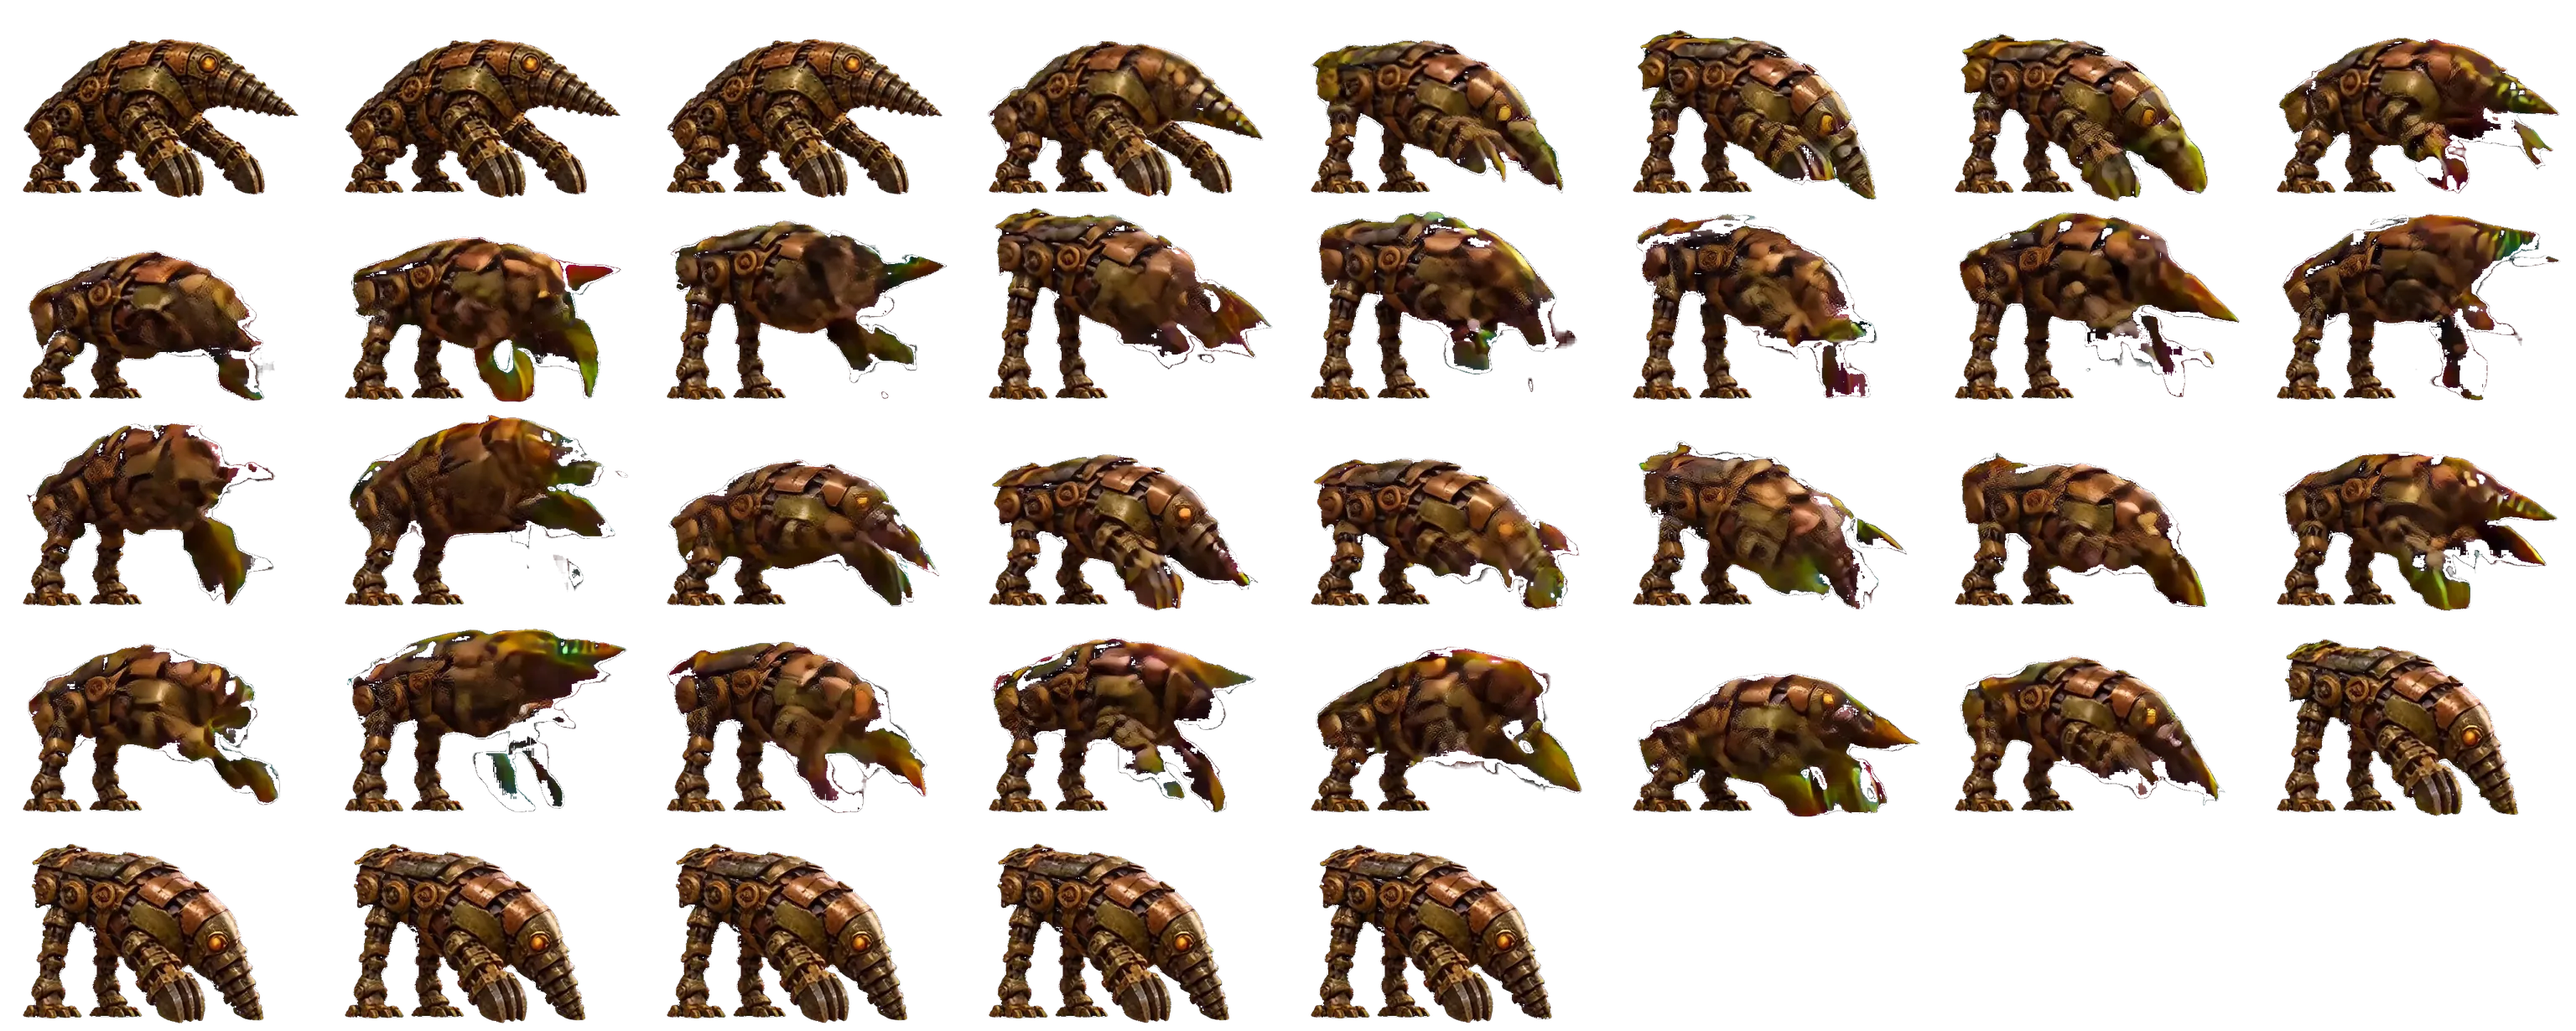
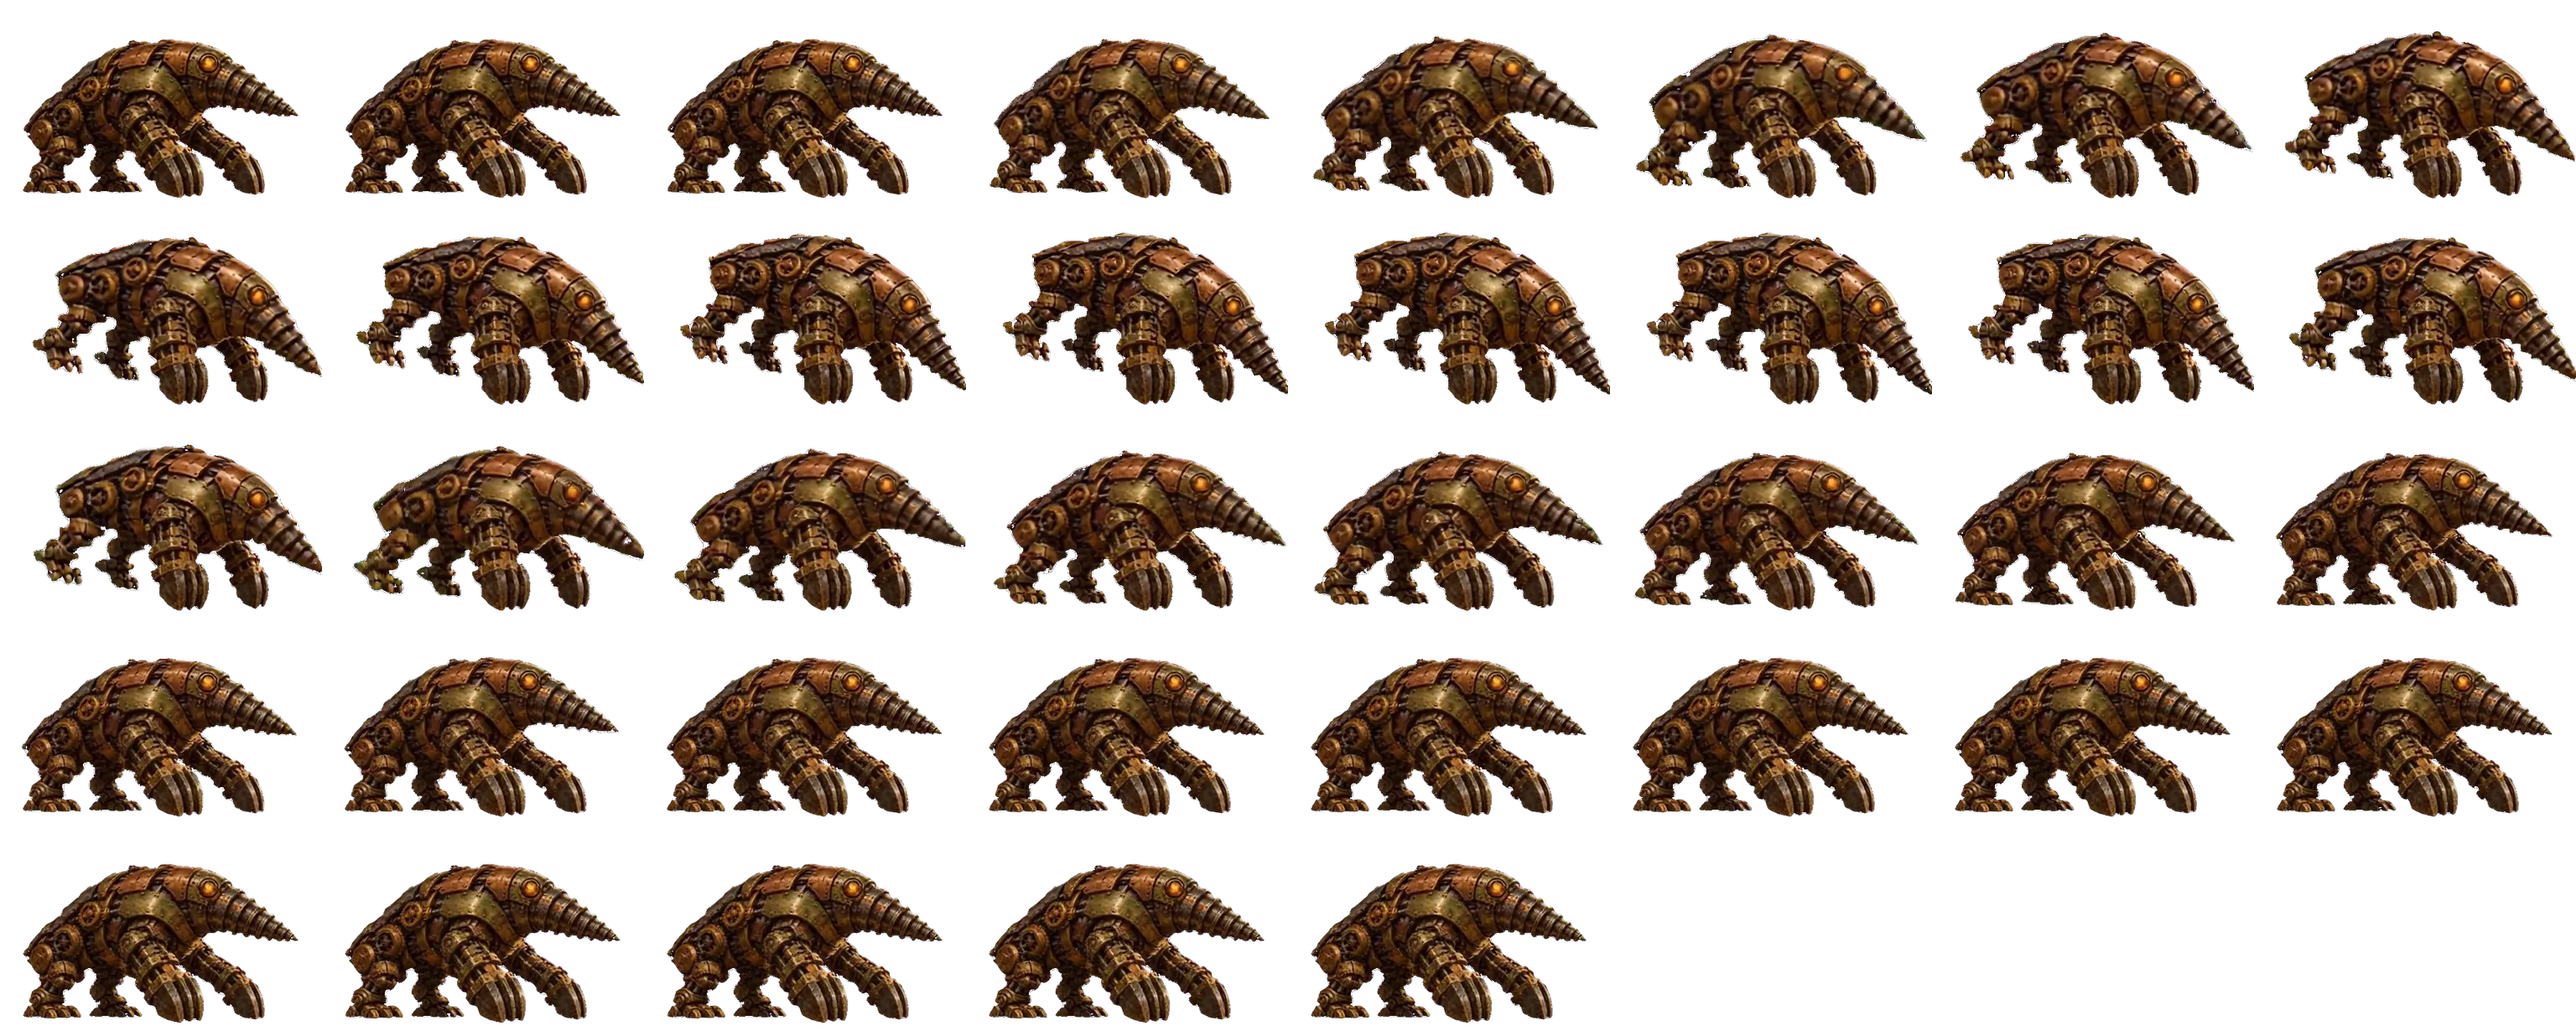
Bronze Mole attack: new clip without morphing plus two lunges drawn in code (SpriteSpec.lunge), also on the review page

diff --git a/scripts/podglad.ts b/scripts/podglad.ts
@@ -54,7 +54,7 @@ if (!process.env.SKIP_SHOTS) {
 }
 
 // 2. The page.
-interface Clip { name: string; frames: number; sheet: string; fps: number }
+interface Clip { name: string; frames: number; sheet: string; fps: number; lunge?: [number, number] }
 interface UnitEntry { id: string; name: string; kind: string; stats: string; ability: string; frame: [number, number]; cols: number; clips: Clip[]; stills: string[]; recoil?: { still: string; feet: number; cx: number }; sounds: { atak?: string; smierc?: string } }
 const entries: Record<string, UnitEntry[]> = {};
 for (const f of FACTIONS) {
@@ -73,7 +73,7 @@ for (const f of FACTIONS) {
       e.frame = a.frame; e.cols = a.cols;
       for (const [name, frames] of Object.entries<number>(a.clips)) {
         if (name === 'trafienie' && spec.recoil) continue; // drawn in code instead (SpriteSpec.recoil): shown below as a loop of the still
-        if (existsSync(`${dir}/${name}.webp`)) e.clips.push({ name, frames, sheet: `../../${dir}/${name}.webp`, fps: (a.fps ?? 12) * (spec.speed?.[name] ?? 1) });
+        if (existsSync(`${dir}/${name}.webp`)) e.clips.push({ name, frames, sheet: `../../${dir}/${name}.webp`, fps: (a.fps ?? 12) * (spec.speed?.[name] ?? 1), lunge: name === 'atak' && spec.lunge ? [spec.lunge.jabs, spec.lunge.reach * (a.body ?? 0.5)] : undefined });
       }
       for (const s of ['stoi', 'martwy']) if (existsSync(`${dir}/${s}.webp`)) e.stills.push(`../../${dir}/${s}.webp`);
       if (spec.recoil) e.recoil = { still: `../../${dir}/stoi.webp`, feet: a.feet ?? 0.84, cx: a.cx ?? 0.5 };
@@ -109,7 +109,7 @@ button:hover{background:#4d3d22}
 ${FACTIONS.map((f) => `<section id="${f}"><h2>${FACTION_NAMES[f]}</h2>
 <div class="osada"><div class="meta" style="margin:0 20px 6px">Ekran osady z wybudowanymi wszystkimi budynkami (scena panelu testowego)</div>${existsSync(`${OUT}/osady/${f}.jpg`) ? `<img loading="lazy" src="osady/${f}.jpg">` : '<div class="none" style="margin:0 20px">brak zrzutu osady</div>'}</div>
 ${entries[f].map((e) => `<div class="unit" data-id="${e.id}"><img loading="lazy" src="karty/${e.id}.png" alt="${e.name}"><div class="info"><h3>${e.name}</h3><div class="meta">${e.kind} · ${e.stats}${e.ability ? '<br>' + e.ability : ''}</div>
-<div class="clips">${e.stills.map((s) => `<div class="clip"><canvas data-still="${s}"></canvas>${s.includes('martwy') ? 'martwy' : 'stoi'}</div>`).join('')}${e.clips.map((c) => `<div class="clip"><canvas data-sheet="${c.sheet}" data-frames="${c.frames}" data-cols="${e.cols}" data-fw="${e.frame[0]}" data-fh="${e.frame[1]}" data-fps="${c.fps}"></canvas>${c.name}</div>`).join('')}${e.recoil ? `<div class="clip"><canvas data-still="${e.recoil.still}" data-recoil="1" data-feet="${e.recoil.feet}" data-cx="${e.recoil.cx}"></canvas>trafienie (w kodzie)</div>` : ''}${e.clips.length || e.stills.length ? '' : '<span class="none">brak sprite\'ów (żeton z portretem)</span>'}</div>
+<div class="clips">${e.stills.map((s) => `<div class="clip"><canvas data-still="${s}"></canvas>${s.includes('martwy') ? 'martwy' : 'stoi'}</div>`).join('')}${e.clips.map((c) => `<div class="clip"><canvas data-sheet="${c.sheet}" data-frames="${c.frames}" data-cols="${e.cols}" data-fw="${e.frame[0]}" data-fh="${e.frame[1]}" data-fps="${c.fps}"${c.lunge ? ` data-lunge="${c.lunge.join(',')}"` : ''}></canvas>${c.name}</div>`).join('')}${e.recoil ? `<div class="clip"><canvas data-still="${e.recoil.still}" data-recoil="1" data-feet="${e.recoil.feet}" data-cx="${e.recoil.cx}"></canvas>trafienie (w kodzie)</div>` : ''}${e.clips.length || e.stills.length ? '' : '<span class="none">brak sprite\'ów (żeton z portretem)</span>'}</div>
 <div>${e.sounds.atak ? `<button data-snd="${e.sounds.atak}">▶ dźwięk ataku</button>` : ''}${e.sounds.smierc ? `<button data-snd="${e.sounds.smierc}">▶ dźwięk śmierci</button>` : ''}${!e.sounds.atak && !e.sounds.smierc ? '<span class="none">brak dźwięków</span>' : ''}</div></div></div>`).join('')}</section>`).join('')}
 <script>
 const zoom=document.getElementById('zoom'),mirror=document.getElementById('mirror');
@@ -128,6 +128,7 @@ function tick(){const t=(performance.now()-t0)/1000;
    x.drawImage(i,0,0,c.width,c.height);x.restore();continue;}
   const i=img(c.dataset.sheet);if(!i.complete||!c.width)continue;const n=+c.dataset.frames,cols=+c.dataset.cols,fw=+c.dataset.fw,fh=+c.dataset.fh;
   const f=Math.floor(t*(+c.dataset.fps))%n;x.clearRect(0,0,c.width,c.height);x.save();if(flip){x.translate(c.width,0);x.scale(-1,1);}
+  if(c.dataset.lunge){const [j,r]=c.dataset.lunge.split(',').map(Number);const tt=(t*(+c.dataset.fps)%n)/n;const u=(tt-0.1)/0.75;let o=0;if(u>0&&u<1){const k=(u*j)%1;o=k<0.3?Math.sin(k/0.3*Math.PI/2):0.5+0.5*Math.cos((k-0.3)/0.7*Math.PI);}x.translate(o*r*c.width,0);}
   x.drawImage(i,(f%cols)*fw,Math.floor(f/cols)*fh,fw,fh,0,0,c.width,c.height);x.restore();}
  requestAnimationFrame(tick);}
 tick();

diff --git a/src/ui/sprites.ts b/src/ui/sprites.ts
@@ -19,6 +19,8 @@ export interface SpriteSpec {
   feet?: number;
   /** The hit is drawn in code as a smooth lean back from a blow in front (the AI hit clip of this unit morphs and flickers, so it is not used). */
   recoil?: boolean;
+  /** The attack clip barely moves the body (a rigid machine): it is drawn jabbing forward this many times, by this share of its body width. */
+  lunge?: { jabs: number; reach: number };
   /** Playback speed of each clip against its recorded 24 fps (the take-off and landing are slowed or sped up here). */
   speed: Record<string, number>;
 }
@@ -135,7 +137,7 @@ export const SPRITES: Record<string, SpriteSpec> = {
   sefiran: { dir: 'jednostki/sefiran_plamisty', box: [76, 54] as const, corpseMax: CORPSE_MAX_W, speed: { chod: 1.4, atak: 1.5, smierc: 1.5, trafienie: 1.4 } },
   // Iron Clan (G4, 23.11): all nineteen characters with a full set of clips. Two-hex: dwarfCannon, clanColossus.
   shieldDwarf: { dir: 'jednostki/krasnolud_tarczownik', box: [66, 106] as const, corpseMax: CORPSE_MAX_W, speed: { chod: 1.4, atak: 1.5, smierc: 1.0, trafienie: 1.4 } },
-  bronzeMole: { dir: 'jednostki/kret_z_brazu', box: [90, 52] as const, corpseMax: CORPSE_MAX_W, recoil: true, speed: { chod: 1.4, atak: 1.5, smierc: 1.5, trafienie: 1.4 } },
+  bronzeMole: { dir: 'jednostki/kret_z_brazu', box: [90, 52] as const, corpseMax: CORPSE_MAX_W, recoil: true, lunge: { jabs: 2, reach: 0.22 }, speed: { chod: 1.4, atak: 1.5, smierc: 1.5, trafienie: 1.4 } },
   brassSpider: { dir: 'jednostki/mosiezny_pajak', box: [90, 45] as const, corpseMax: CORPSE_MAX_W, speed: { chod: 1.4, atak: 1.5, smierc: 1.5, trafienie: 1.4 } },
   armoredBear: { dir: 'jednostki/niedzwiedz_w_zbroi', box: [90, 67] as const, corpseMax: CORPSE_MAX_W, recoil: true, speed: { chod: 1.4, atak: 1.5, smierc: 1.5, trafienie: 1.4 } },
   battleSmith: { dir: 'jednostki/kowal_bitewny', box: [70, 108] as const, corpseMax: CORPSE_MAX_W, recoil: true, speed: { chod: 1.4, atak: 1.5, smierc: 1.9, trafienie: 1.4 } },
@@ -156,6 +158,14 @@ export const SPRITES: Record<string, SpriteSpec> = {
 };
 
 /** Whether the unit is drawn from sprites in the digital ruleset (otherwise: 3D figure or portrait token). */
+/** How far forward (0–1 of the reach) a lunging unit is at point t (0–1) of its attack clip: quick jabs out, a slower pull back, between 10% and 85% of the clip. */
+export function lungeAt(jabs: number, t: number): number {
+  const u = (t - 0.1) / 0.75;
+  if (u <= 0 || u >= 1) return 0;
+  const k = (u * jabs) % 1;
+  return k < 0.3 ? Math.sin((k / 0.3) * (Math.PI / 2)) : 0.5 + 0.5 * Math.cos(((k - 0.3) / 0.7) * Math.PI);
+}
+
 export const hasSprites = (defId: string): boolean => defId in SPRITES;
 
 interface AnimJson {

diff --git a/src/i18n/en/changelog.ts b/src/i18n/en/changelog.ts
@@ -4,6 +4,7 @@ import { register } from '../translate';
 
 // In preparation
 register({
+  "Kret z Brązu: nowy atak bez zniekształceń – maszyna dwa razy wypada do przodu z kręcącym się wiertłem.": "Bronze Mole: a new attack without distortions – the machine lunges forward twice with its drill spinning.",
   "Żelazny Klan: nowe animacje – Tan i Stary Górmistrz uderzają przed siebie (nie w ziemię), Pogromca Olbrzymów robi samo pchnięcie włócznią bez kroków, a Tan, Pogromca, Gwardia Młota i Wartownik z Brązu przy śmierci padają na ziemię do końca.": "Iron Clan: new animations – Ironbeard the Thane and the Old Mountain-Master strike forward (not into the ground), the Giant Slayer makes a pure spear thrust without stepping, and the Thane, the Giant Slayer, the Hammer Guard and the Bronze Sentinel fall all the way to the ground when they die.",
   "Kusznik Gór: przy śmierci jego tarcza przechyla się i pada płasko na ziemię obok niego.": "Mountain Crossbowman: when he dies, his shield tips over and falls flat on the ground beside him.",
   "Gwardia Młota: z ataku zniknął biały błysk na młocie i pył po uderzeniu.": "Hammer Guard: the white glare on the hammer and the dust after the blow are gone from the attack.",

diff --git a/src/ui/SpriteLayer.tsx b/src/ui/SpriteLayer.tsx
@@ -7,7 +7,7 @@ import { animClock } from './animSpeed';
 import { useEffect, useRef } from 'react';
 import { emitImpact } from './impact';
 import { sfx } from './sfx';
-import { loadSprites, releaseSpritesExcept, SPRITES, type SpriteSet } from './sprites';
+import { loadSprites, lungeAt, releaseSpritesExcept, SPRITES, type SpriteSet } from './sprites';
 
 export interface SpritePiece {
   key: string;
@@ -371,6 +371,9 @@ class Stage {
     // Hit: shake and flash.
     const since = now - l.hitStart;
     let recoil = 0;
+    // A lunge drawn in code (SpriteSpec.lunge): the whole unit jabs forward during its attack clip.
+    const lunge = set.spec.lunge;
+    if (lunge && seg?.kind === 'clip' && seg.clip === 'atak' && !seg.reverse) x += (l.flip ? -1 : 1) * lunge.reach * bodyPx * lungeAt(lunge.jabs, Math.min(1, (now - l.segStart) / seg.ms));
     if (set.spec.recoil && since < RECOIL_MS) {
       // Lean back fast (a fifth of the time), then ease back to standing; a faint flash at the blow.
       const u = since / RECOIL_MS;

diff --git a/CHANGELOG.md b/CHANGELOG.md
@@ -6,6 +6,7 @@ Każdy wpis to jeden commit, a skrót commita stoi w nawiasie na końcu wpisu (c
 
 ## W przygotowaniu
 
+- Kret z Brązu: nowy atak bez zniekształceń – maszyna dwa razy wypada do przodu z kręcącym się wiertłem.
 - Żelazny Klan: nowe animacje – Tan i Stary Górmistrz uderzają przed siebie (nie w ziemię), Pogromca Olbrzymów robi samo pchnięcie włócznią bez kroków, a Tan, Pogromca, Gwardia Młota i Wartownik z Brązu przy śmierci padają na ziemię do końca.
 - Kusznik Gór: przy śmierci jego tarcza przechyla się i pada płasko na ziemię obok niego.
 - Gwardia Młota: z ataku zniknął biały błysk na młocie i pył po uderzeniu.
